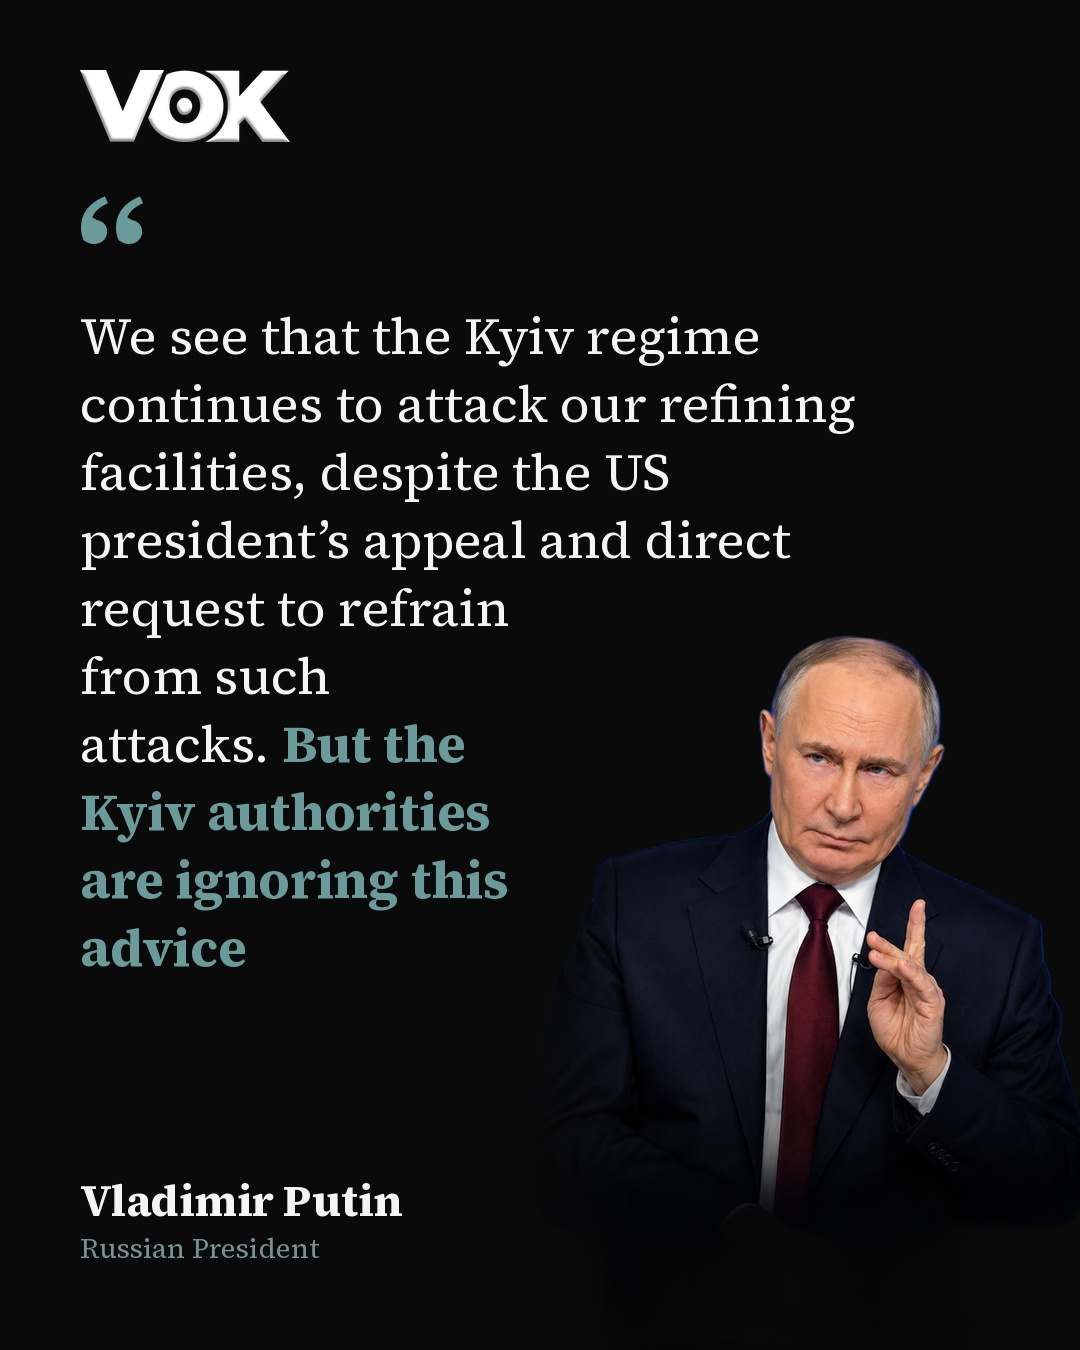
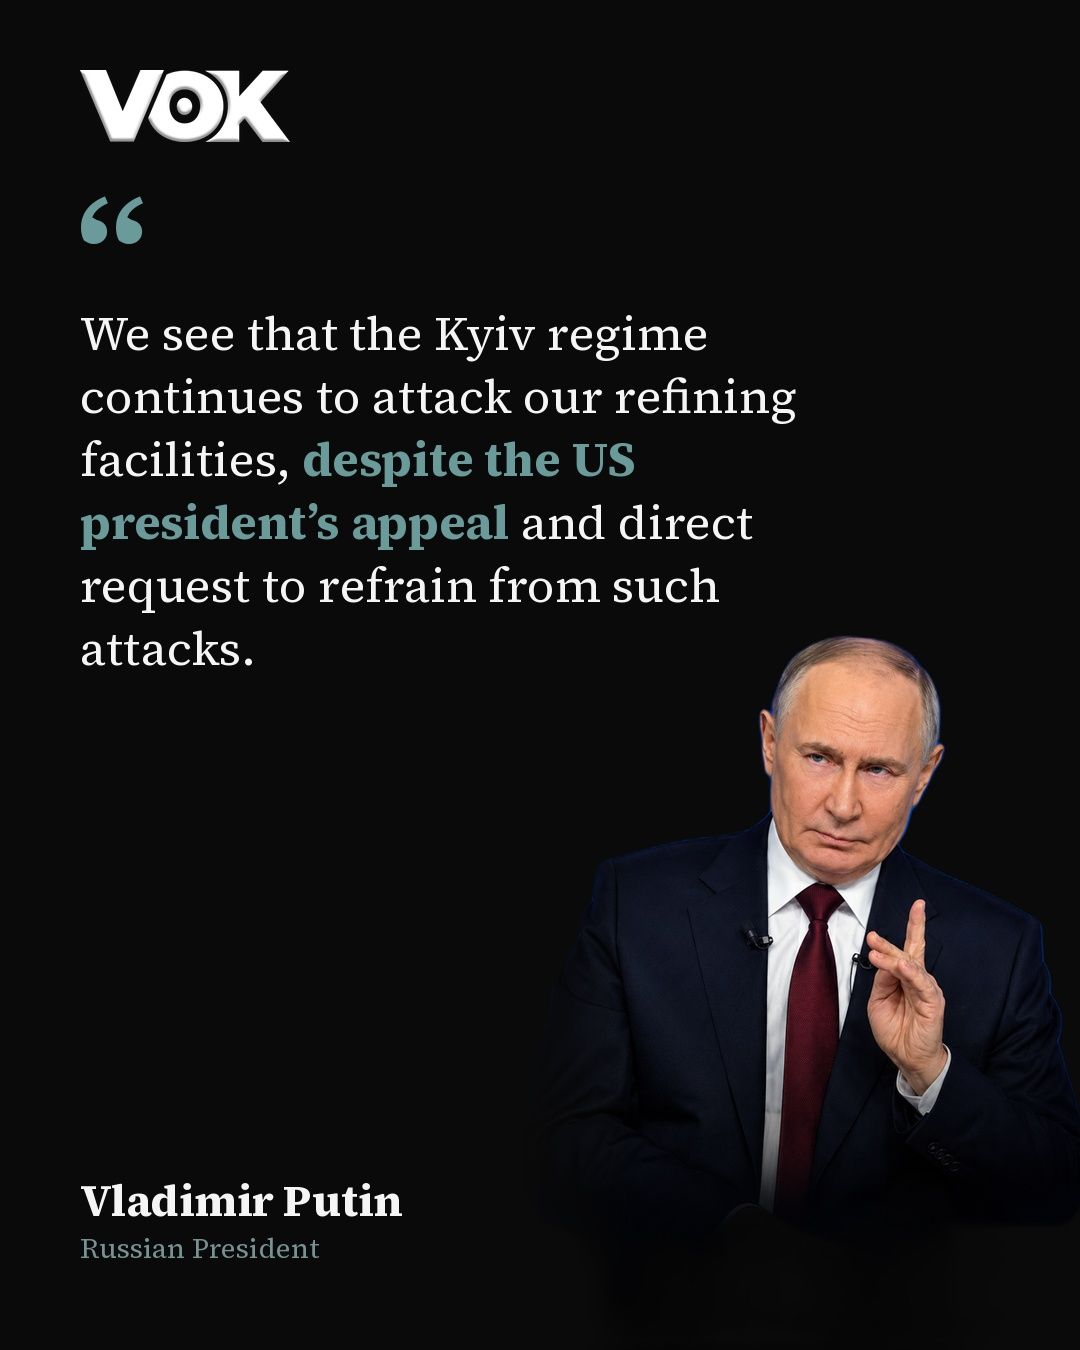
7am check: Putin quote trimmed to one sentence; quote cards avoid thin columns; quotes capped at 32 words
Claude-Session: https://claude.ai/code/session_01QCrJEZeKbDG7a8nB2oQVuB

Changed region(s): [[0.0611, 0.2178, 0.7944, 0.7156]]

diff --git a/vok/quote.py b/vok/quote.py
@@ -106,6 +106,7 @@ def render_quote(quote: str, highlight: str, name: str, title: str, photo: str |
     else:
         tokens = [(w, False) for w in quote.split()]
     top, bottom = 300, 1060
+    first = chosen = None
     for size in range(78, 30, -2):
         fonts = {False: serif(400, size), True: serif(700, size)}
         lh = int(size * 1.32)
@@ -115,8 +116,15 @@ def render_quote(quote: str, highlight: str, name: str, title: str, photo: str |
                 return max(360, person_left - MARGIN - 30)
             return 800
         lines = _wrap(tokens, fonts, room)
-        if len(lines) * lh <= bottom - top:
+        if len(lines) * lh > bottom - top:
+            continue
+        first = first or (fonts, lh, lines)
+        # avoid a thin column of 1 to 2 words beside the person: allow at most 2 narrow lines
+        narrow = sum(1 for i in range(len(lines)) if top + (i + 1) * lh > person_top - 10)
+        if narrow <= 2 or size <= 44:
+            chosen = (fonts, lh, lines)
             break
+    fonts, lh, lines = chosen or first
     y = top
     for line in lines:
         x = MARGIN

diff --git a/vok/make_quotes.py b/vok/make_quotes.py
@@ -104,7 +104,7 @@ def main(count: int = 1) -> int:
             continue
         quote, speaker = q.get("quote", "").strip(), q.get("speaker", "").strip()
         n = len(quote.split())
-        if not (15 <= n <= 75) or not speaker:
+        if not (8 <= n <= 32) or not speaker:      # longer quotes look cramped on the card
             continue
         body = _norm(text)
         parts = [p for p in re.split(r"(?<=[.!?])\s+|\s*\.\.\.\s*|\s*\u2026\s*", _norm(quote).strip('"')) if p]
